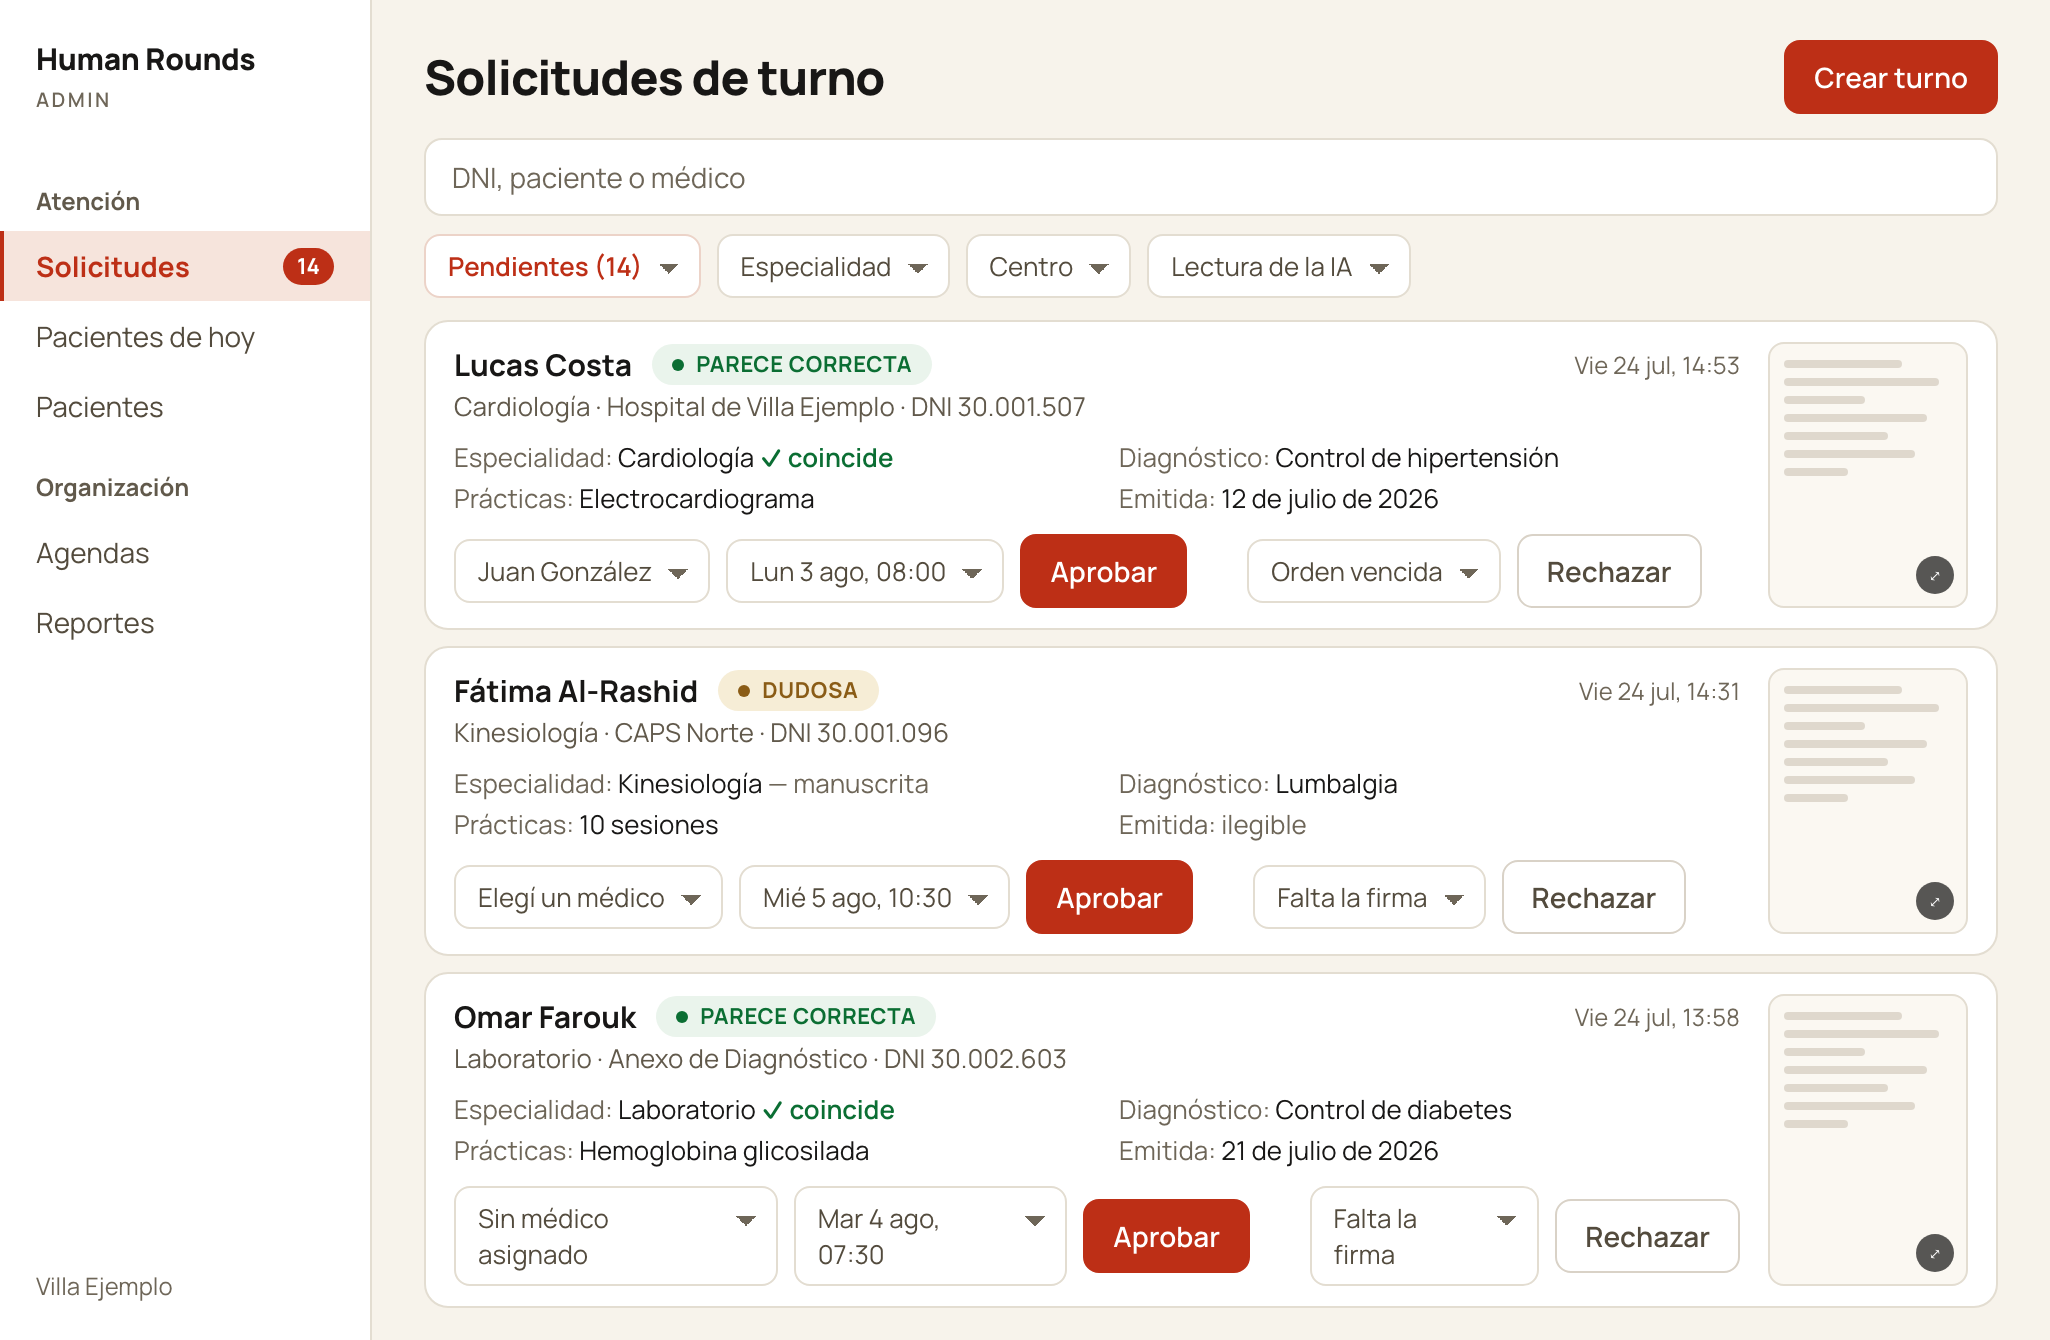
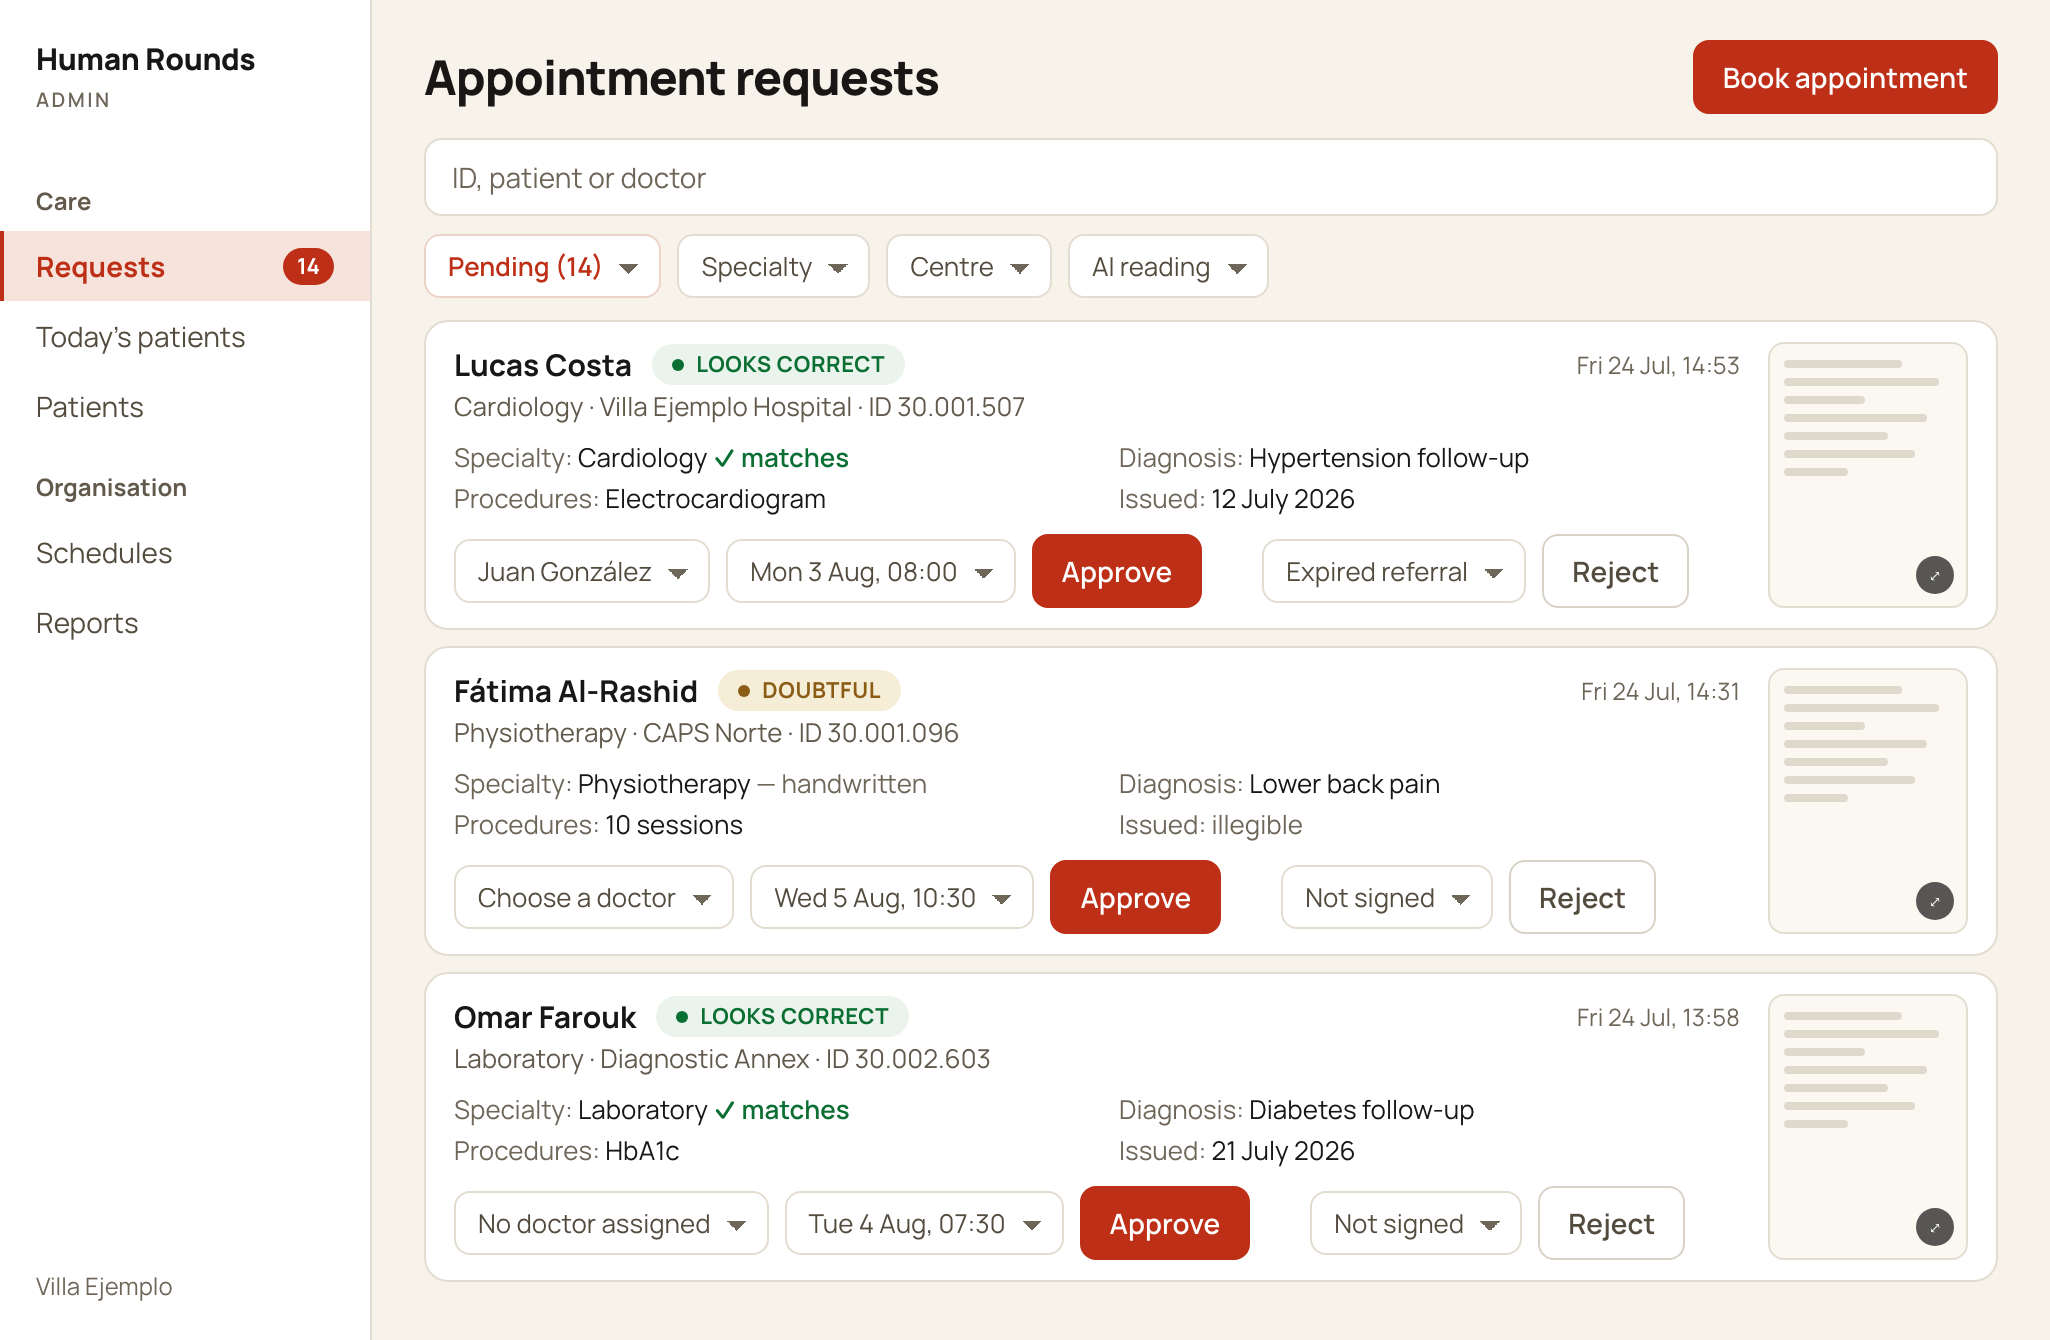
Sitio publico: capturas del producto en ingles, la espanola queda para es (intake a594ecf)

diff --git a/website/docs.js b/website/docs.js
@@ -372,7 +372,7 @@
         lead: 'El paciente escanea un QR en la puerta del consultorio. La entrevista se abre en su propio celular y el médico lee las respuestas antes de que entre.',
         status: 'Prototipo. Construido y probado, todavía no en producción.',
         body:
-          shot('pre-consult-interview.png', 'La entrevista previa preguntando algo puntual',
+          shot('pre-consult-interview-es.png', 'La entrevista previa preguntando algo puntual',
                'La entrevista pregunta en castellano común y repregunta sobre lo que el paciente contó.') +
           '<h2>Cómo funciona</h2>' +
           '<ul>' +
@@ -393,7 +393,7 @@
         lead: 'El paciente le saca una foto a la orden en papel. La IA la lee —manuscrita incluida— y propone especialidad, médico y horario. El equipo aprueba o rechaza en un clic.',
         status: 'Funcionando en la instalación de Pinamar.',
         body:
-          shot('referral-orders.png', 'La cola de solicitudes con la lectura de la IA',
+          shot('referral-orders-es.png', 'La cola de solicitudes con la lectura de la IA',
                'Cada solicitud llega con la lectura de la IA, la foto de la orden y un clic para aprobar.') +
           '<h2>Qué saca del papel</h2>' +
           '<ul>' +
@@ -414,7 +414,7 @@
         lead: 'Antes del primer paciente del día, la lista ya está leída: un color de triage por fila, el motivo en palabras del paciente y un resumen armado con la historia clínica.',
         status: 'La lista de pacientes del día funciona en la instalación de Pinamar. El color de triage y el resumen con IA son un prototipo; el resumen profundo de la historia clínica está planeado.',
         body:
-          shot('prepared-clinician.png', 'La lista de pacientes de hoy con un resumen previo abierto',
+          shot('prepared-clinician-es.png', 'La lista de pacientes de hoy con un resumen previo abierto',
                'La lista del día a la izquierda; a la derecha, el resumen previo del paciente elegido.') +
           '<h2>Qué trae el resumen</h2>' +
           '<ul>' +
@@ -435,7 +435,7 @@
         lead: 'Una cámara en la ventanilla lee el código del documento y el QR de la credencial, y completa el registro en la historia clínica. Un formato de credencial que nadie vio antes se aprende una vez y después se reconoce solo.',
         status: 'Prototipo. Construido y probado, todavía no en producción.',
         body:
-          shot('scan-to-register.png', 'La pantalla de registro en la ventanilla con un documento leído',
+          shot('scan-to-register-es.png', 'La pantalla de registro en la ventanilla con un documento leído',
                'El documento se lee en la ventanilla y los campos entran a la historia clínica sin tipear.') +
           '<h2>Qué lee</h2>' +
           '<ul>' +
@@ -454,7 +454,7 @@
         lead: 'Aprobar un turno lo escribe en la historia clínica nacional. Si ese sistema no responde, el turno igual queda guardado, encolado y se reintenta hasta que entra.',
         status: 'Funcionando en la instalación de Pinamar.',
         body:
-          shot('health-record-handoff.png', 'La cola de envíos a la historia clínica reintentando',
+          shot('health-record-handoff-es.png', 'La cola de envíos a la historia clínica reintentando',
                'La cola se vacía sola. Nadie vuelve a cargar un turno porque un sistema se cayó.') +
           '<h2>Nada se rompe por una integración</h2>' +
           '<p>La regla es que <b>primero se guarda acá</b>. El equipo aprueba, el turno existe, y el envío es un trabajo en segundo plano. Un envío fallido es una fila en una cola con hora de reintento, no un error que la ventanilla tenga que entender.</p>' +
@@ -470,7 +470,7 @@
         lead: 'Cómo un paciente consigue un turno, desde las primeras tres letras que tipea hasta el recordatorio del día anterior.',
         status: 'Funcionando en la instalación de Pinamar.',
         body:
-          shot('booking.png', 'El paciente eligiendo un horario', '') +
+          shot('booking-es.png', 'El paciente eligiendo un horario', '') +
           '<h2>Encontrar el servicio</h2>' +
           '<p>El paciente escribe lo que busca y la búsqueda contesta desde la tercera letra, en el hospital y en todos los centros de salud a la vez. Compara raíces de palabra, así <i>cardio</i> encuentra cardiología y <i>traumato</i> encuentra traumatología, y busca en especialidades, en nombres de servicio y en los profesionales.</p>' +
           '<p>Lo que nunca hace es inventar una opción. Un servicio por orden de llegada aparece dicho así y lleva a los horarios de atención, no a un calendario. Un servicio que la instalación no ofrece lo dice y muestra los que sí.</p>' +

diff --git a/website/landing.js b/website/landing.js
@@ -340,38 +340,16 @@
     }
   };
 
-  function setLanguage(lang) {
-    if (!copy[lang]) lang = 'en';
-    document.documentElement.lang = lang;
-    document.body.setAttribute('data-language', lang);
-    var nodes = document.querySelectorAll('[data-i18n]');
-    for (var i = 0; i < nodes.length; i++) {
-      var key = nodes[i].getAttribute('data-i18n');
-      if (copy[lang][key] == null) continue;
-      if (nodes[i].hasAttribute('data-i18n-html')) nodes[i].innerHTML = copy[lang][key];
-      else nodes[i].textContent = copy[lang][key];
-    }
-    var alt = document.querySelector('[data-i18n-alt]');
-    if (alt) alt.alt = copy[lang][alt.getAttribute('data-i18n-alt')];
-    var toggle = document.querySelector('[data-language-toggle]');
-    if (toggle) {
-      toggle.textContent = copy[lang].language;
-      toggle.setAttribute('aria-label', lang === 'en' ? 'Cambiar a español' : 'Switch to English');
-    }
-    try { localStorage.setItem('human-rounds-language', lang); } catch {}
-    syncDemoLinks(lang);
-    window.dispatchEvent(new CustomEvent('human-rounds:language', { detail: { lang: lang } }));
-  }
-
-  /* The demo (demo.humanrounds.org) opens in the language the visitor is
-     reading here: every demo link carries `?lang=`, which the demo turns
-     into its own language cookie. Rewritten on every switch. */
-  function syncDemoLinks(lang) {
-    var links = document.querySelectorAll('a[href^="https://demo.humanrounds.org"]');
-    for (var i = 0; i < links.length; i++) {
-      var url = new URL(links[i].getAttribute('href'));
-      url.searchParams.set('lang', lang);
-      links[i].setAttribute('href', url.toString());
+  /* Product screenshots exist in English and Spanish. The English file is the
+     default src (every language but Spanish); an <img data-src-es> swaps to
+     the Spanish mockup while the page reads in Spanish. */
+  function syncLocalizedShots(lang) {
+    var imgs = document.querySelectorAll('img[data-src-es]');
+    for (var i = 0; i < imgs.length; i++) {
+      var img = imgs[i];
+      if (!img.hasAttribute('data-src-default')) img.setAttribute('data-src-default', img.getAttribute('src'));
+      var want = lang === 'es' ? img.getAttribute('data-src-es') : img.getAttribute('data-src-default');
+      if (img.getAttribute('src') !== want) img.setAttribute('src', want);
     }
   }
 
@@ -436,6 +414,7 @@
     }
     try { localStorage.setItem('human-rounds-language', lang); } catch {}
     syncDemoLinks(lang);
+    syncLocalizedShots(lang);
     window.dispatchEvent(new CustomEvent('human-rounds:language', { detail: { lang: lang } }));
   }
 

diff --git a/website/docs.css b/website/docs.css
@@ -170,7 +170,12 @@
 @media (max-width: 560px) {
   .docs-shot { margin-inline: calc(50% - 50vw); }
   .docs-shot button { border-radius: 0; border-left: 0; border-right: 0; }
-  }
+  /* The caption is text, not the shot: it keeps the header's left edge. */
+  .docs-shot figcaption { padding-inline: 17px; }
+}
+@media (max-width: 390px) {
+  .docs-shot figcaption { padding-inline: 12px; }
+}
 
 /* One left edge with the header on phones: same widths as .site-header. */
 @media (max-width: 620px) {

diff --git a/website/landing.html b/website/landing.html
@@ -80,7 +80,7 @@
       </div>
 
       <div class="hero-shots" aria-hidden="true">
-        <div class="hero-shot hero-shot--desk"><img src="/web/hero-prepared.jpg" alt="" width="1300" height="849" fetchpriority="high"></div>
+        <div class="hero-shot hero-shot--desk"><img src="/web/hero-prepared.jpg" data-src-es="/web/hero-prepared-es.jpg" alt="" width="1300" height="849" fetchpriority="high"></div>
       </div>
     </section>
 
